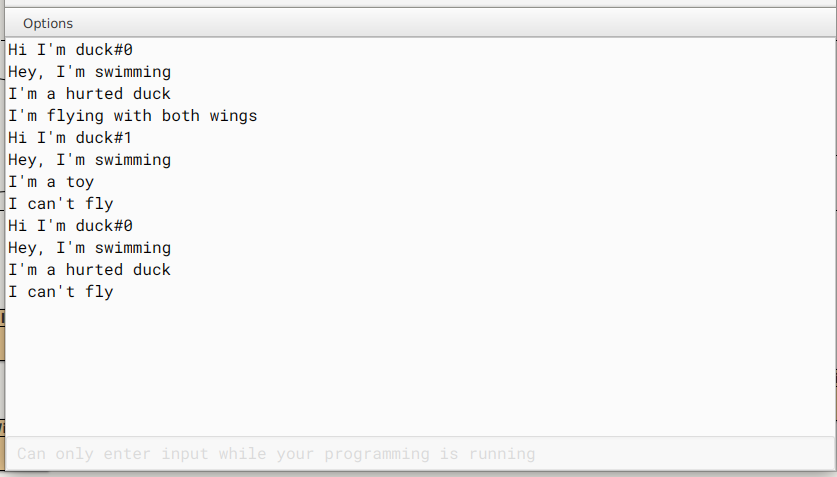
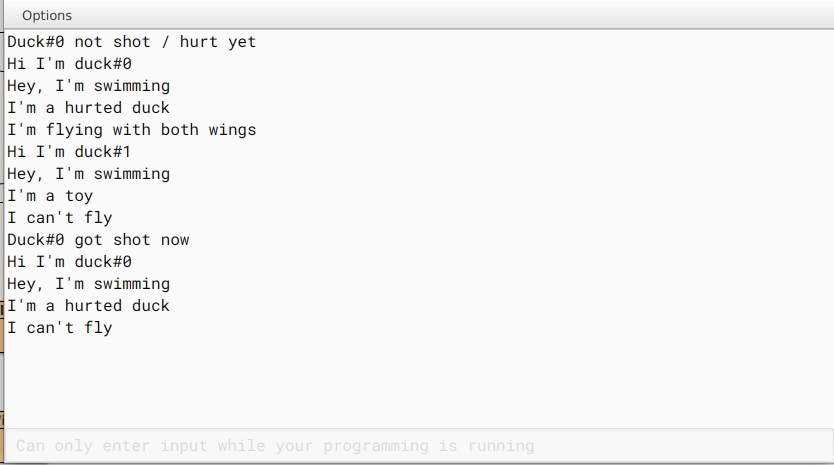
Add files via upload
slight change in output

Changed region(s): [[0.0, 0.0, 1.0, 1.0]]

diff --git a/strategy pattern/Simulator.java b/strategy pattern/Simulator.java
@@ -9,11 +9,12 @@ public class Simulator {
     public static void main(String args[]){
         duck d1 = new HurtDuck();
         duck d2 = new toyDuck();
-        
+        System.out.println("Duck#0 not shot / hurt yet");
         d1.perform();
         d2.perform();
         
         // change the interface of d1 into FlyNoFly interface
+        System.out.println("Duck#0 got shot now");
         ((HurtDuck)d1).gotShot();
         d1.perform();
     }
